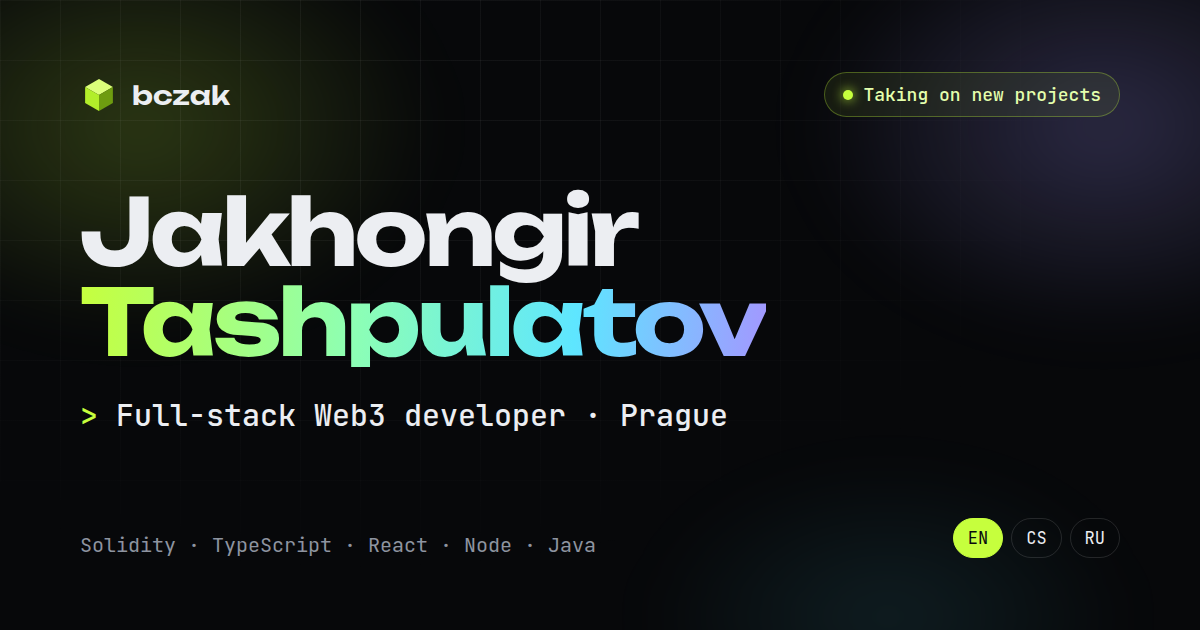
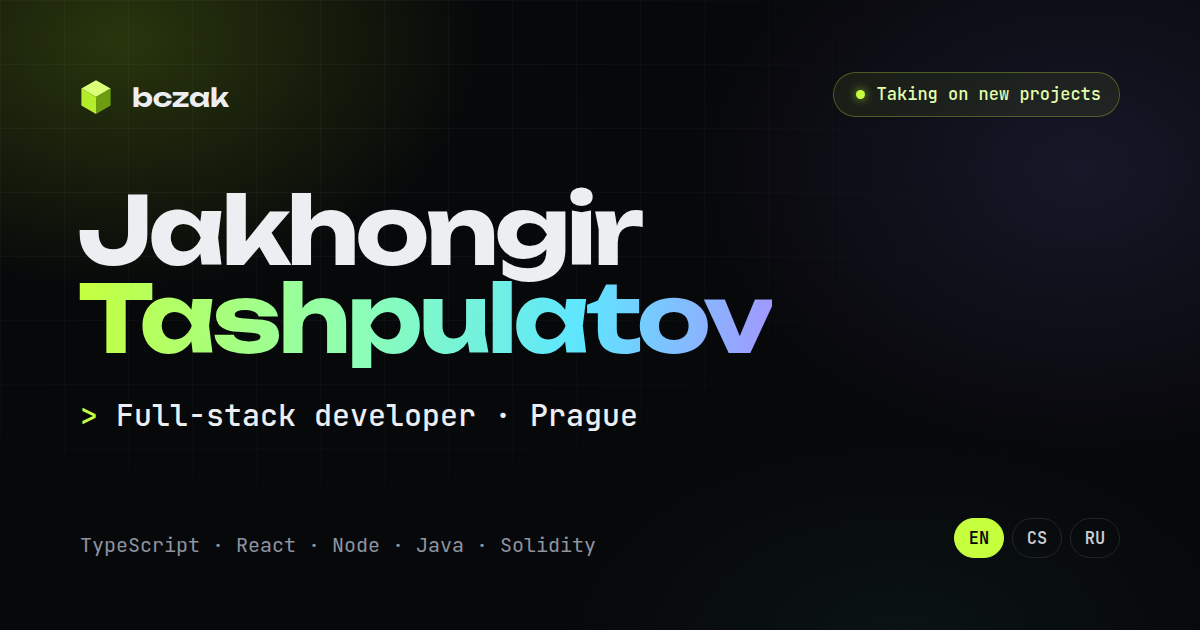
Full-stack developer title, specific skills, one-page print CV
- Title is now "Full-stack developer" (no Web3) in all languages, meta
  tags, README and a regenerated og.png
- Skills rebuilt from shipped work: TanStack Router/Query/Start, Next.js,
  Module Federation, Convex, Prisma, Docker, Prometheus and more; new
  Testing & tooling group; Backend and Data merged
- Findex bullet says what I built myself: subgraphs, trading app and
  back office; KINDRED: presentation websites for international companies
- Print: skills as compact text, languages in the header, secondary
  school web-only, so the EN and CS CVs fit one A4 page again

diff --git a/src/content.ts b/src/content.ts
@@ -67,21 +67,23 @@ export const nowUpdated: YM = [2026, 10]
 // Public figures from the findex.io homepage.
 export const findexStats = { checked: [2026, 10] as YM, chains: 3, indexes: 19, aum: 2_500_000 }
 
-export type StackId = 'web3' | 'frontend' | 'backend' | 'data' | 'cloud' | 'ai'
+// Strongest first. Every entry is backed by shipped work or commits in the repos behind the projects above.
+export type StackId = 'web3' | 'frontend' | 'backend' | 'cloud' | 'quality' | 'ai'
 export const stack: Record<StackId, string[]> = {
-  web3: ['Solidity', 'EVM', 'Uniswap V4', 'Safe', 'Zodiac Roles', 'viem', 'wagmi', 'The Graph', 'TON', 'TON Connect'],
-  frontend: ['TypeScript', 'React', 'TanStack', 'Vue', 'Vite', 'Tailwind CSS', 'Bootstrap', 'Design systems', 'Telegram Mini Apps'],
-  backend: ['Java', 'Spring Boot', 'Maven', 'Node.js', 'Bun', 'Deno', 'Python', 'Flask', 'REST', 'Telegraf'],
-  data: ['SQL', 'PostgreSQL', 'MySQL', 'Teradata', 'DynamoDB'],
-  cloud: ['Kubernetes', 'Jenkins', 'AWS Lambda', 'API Gateway', 'S3', 'CloudFront', 'Serverless', 'GitHub Actions'],
-  ai: ['LLM APIs', 'Agents', 'RAG', 'On-chain automation'],
+  web3: ['Solidity', 'EVM', 'viem', 'wagmi', 'Uniswap V4 SDKs', 'Safe', 'Zodiac Roles', 'ERC-4337', 'WalletConnect', 'The Graph', 'EVM nodes', 'TON', 'TON Connect'],
+  frontend: ['TypeScript', 'React', 'TanStack Router', 'TanStack Query', 'TanStack Start', 'Next.js', 'Vite', 'Rsbuild', 'Module Federation', 'Tailwind CSS', 'shadcn/ui', 'Zustand', 'Zod', 'Design systems', 'Three.js', 'Vue', 'Telegram Mini Apps'],
+  backend: ['Node.js', 'Bun', 'Deno', 'Express', 'Hono', 'Convex', 'REST & OpenAPI', 'GraphQL', 'PostgreSQL', 'MySQL', 'Teradata', 'Prisma', 'Drizzle', 'Firebase', 'Stripe', 'Java', 'Spring Boot', 'Python'],
+  cloud: ['Docker', 'Kubernetes', 'GitHub Actions', 'Jenkins', 'AWS Lambda', 'API Gateway', 'S3', 'CloudFront', 'Serverless', 'Traefik', 'APISIX', 'Prometheus', 'Grafana', 'Sentry', 'Linux'],
+  quality: ['Vitest', 'Playwright', 'Testing Library', 'Storybook', 'Jest', 'Biome', 'ESLint', 'Turborepo', 'semantic-release'],
+  ai: ['LLM APIs', 'AI agents', 'Claude Code', 'Codex', 'AI code review in CI', 'Sandboxed code execution', 'RAG', 'Genkit', 'On-chain automation'],
 }
 
 type JobText = { role: string; org?: string; summary: string; points: string[] }
 
-export const education: { id: 'ctu' | 'kspa'; from: number; to: number; url?: string }[] = [
+// printed: false keeps an entry off the one-page print CV.
+export const education: { id: 'ctu' | 'kspa'; from: number; to: number; url?: string; printed?: boolean }[] = [
   { id: 'ctu', from: 2018, to: 2021, url: 'https://fel.cvut.cz' },
-  { id: 'kspa', from: 2016, to: 2018 },
+  { id: 'kspa', from: 2016, to: 2018, printed: false },
 ]
 
 export const awards: { id: 'collaby' | 'hackaton'; year: number; url: string }[] = [
@@ -99,11 +101,11 @@ export const spoken: [Lang, string][] = [
 const en = {
   langName: 'English',
   name: 'Jakhongir Tashpulatov',
-  role: 'Full-stack Web3 developer',
+  role: 'Full-stack developer',
   prague: 'Prague, Czechia',
   meta: {
-    title: 'Jakhongir Tashpulatov — Full-stack Web3 developer',
-    description: 'Full-stack Web3 developer in Prague. Smart contracts, backends, indexers and interfaces — the whole stack, shipped.',
+    title: 'Jakhongir Tashpulatov — Full-stack developer',
+    description: 'Full-stack developer in Prague. Smart contracts, backends, indexers and interfaces — the whole stack, shipped.',
   },
   nav: { about: 'About', experience: 'Experience', projects: 'Projects', stack: 'Stack', contact: 'Contact', print: 'Print CV', language: 'Language' },
   hero: {
@@ -149,7 +151,7 @@ const en = {
         role: 'CEO',
         summary: 'Running a Prague software studio that designs, builds and tests products — from smart contracts to landing pages — for web3, fintech and AI clients.',
         points: [
-          'Built Findex, an index-token protocol on Uniswap V4 liquidity positions: contracts, trading app, admin dashboard and indexing.',
+          'Built Findex’s subgraphs, trading app and back office myself — an index-token protocol on Uniswap V4 liquidity positions.',
           'Building thyme/labs: EVM RPC (Gate), hosted subgraphs (Atlas) and Flow — TypeScript automation that runs from the user’s own Safe.',
           'Shipped BCkit, a free web3 debugging toolkit, and QandA.fun, a live multiplayer quiz platform.',
           'Lead a team of frontend, backend and smart-contract engineers with in-house QA and design.',
@@ -163,7 +165,7 @@ const en = {
       },
       kindred: {
         role: 'Full-stack developer',
-        summary: 'Full-stack feature work for a Prague product team.',
+        summary: 'Built presentation websites for international companies.',
         points: [],
       },
       kb: {
@@ -232,7 +234,7 @@ const en = {
   stack: {
     label: 'Stack',
     title: 'Tools I reach for',
-    groups: { web3: 'Web3', frontend: 'Frontend', backend: 'Backend', data: 'Data', cloud: 'Cloud & DevOps', ai: 'AI & automation' },
+    groups: { web3: 'Web3', frontend: 'Frontend', backend: 'Backend & data', cloud: 'Cloud & DevOps', quality: 'Testing & tooling', ai: 'AI & automation' },
   },
   background: { label: 'Background', title: 'Education & more' },
   education: {
@@ -275,11 +277,11 @@ export type Dict = typeof en
 const cs: Dict = {
   langName: 'Čeština',
   name: 'Jakhongir Tashpulatov',
-  role: 'Full-stack Web3 vývojář',
+  role: 'Full-stack vývojář',
   prague: 'Praha, Česko',
   meta: {
-    title: 'Jakhongir Tashpulatov — Full-stack Web3 vývojář',
-    description: 'Full-stack Web3 vývojář v Praze. Smart kontrakty, backendy, indexery i rozhraní — celý stack od návrhu po provoz.',
+    title: 'Jakhongir Tashpulatov — Full-stack vývojář',
+    description: 'Full-stack vývojář v Praze. Smart kontrakty, backendy, indexery i rozhraní — celý stack od návrhu po provoz.',
   },
   nav: { about: 'O mně', experience: 'Zkušenosti', projects: 'Projekty', stack: 'Technologie', contact: 'Kontakt', print: 'Tisk CV', language: 'Jazyk' },
   hero: {
@@ -325,7 +327,7 @@ const cs: Dict = {
         role: 'CEO',
         summary: 'Vedu pražské softwarové studio, které navrhuje, vyvíjí a testuje produkty — od smart kontraktů po landing pages — pro klienty z web3, fintechu a AI.',
         points: [
-          'Postavili jsme Findex, protokol indexových tokenů nad likviditními pozicemi Uniswap V4: kontrakty, obchodní aplikaci, administraci a indexaci.',
+          'Sám jsem postavil subgraphy, obchodní aplikaci a back office Findexu — protokolu indexových tokenů nad likviditními pozicemi Uniswap V4.',
           'Stavíme thyme/labs: EVM RPC (Gate), hostované subgraphy (Atlas) a Flow — automatizaci v TypeScriptu, která běží z vlastního Safe uživatele.',
           'Vydali jsme BCkit, bezplatnou sadu nástrojů pro ladění web3, a QandA.fun, platformu pro živé kvízy pro více hráčů.',
           'Vedu tým frontendových, backendových a smart-kontraktových vývojářů s vlastním QA a designem.',
@@ -339,7 +341,7 @@ const cs: Dict = {
       },
       kindred: {
         role: 'Full-stack vývojář',
-        summary: 'Full-stack vývoj nových funkcí v pražském produktovém týmu.',
+        summary: 'Vytvářel jsem prezentační weby pro mezinárodní společnosti.',
         points: [],
       },
       kb: {
@@ -408,7 +410,7 @@ const cs: Dict = {
   stack: {
     label: 'Technologie',
     title: 'Nástroje, po kterých sahám',
-    groups: { web3: 'Web3', frontend: 'Frontend', backend: 'Backend', data: 'Data', cloud: 'Cloud a DevOps', ai: 'AI a automatizace' },
+    groups: { web3: 'Web3', frontend: 'Frontend', backend: 'Backend a data', cloud: 'Cloud a DevOps', quality: 'Testování a nástroje', ai: 'AI a automatizace' },
   },
   background: { label: 'Vzdělání', title: 'Vzdělání a další' },
   education: {
@@ -449,11 +451,11 @@ const cs: Dict = {
 const ru: Dict = {
   langName: 'Русский',
   name: 'Джахонгир Ташпулатов',
-  role: 'Full-stack Web3-разработчик',
+  role: 'Full-stack-разработчик',
   prague: 'Прага, Чехия',
   meta: {
-    title: 'Джахонгир Ташпулатов — Full-stack Web3-разработчик',
-    description: 'Full-stack Web3-разработчик в Праге. Смарт-контракты, бэкенды, индексеры и интерфейсы — весь стек под ключ.',
+    title: 'Джахонгир Ташпулатов — Full-stack-разработчик',
+    description: 'Full-stack-разработчик в Праге. Смарт-контракты, бэкенды, индексеры и интерфейсы — весь стек под ключ.',
   },
   nav: { about: 'Обо мне', experience: 'Опыт', projects: 'Проекты', stack: 'Стек', contact: 'Контакты', print: 'Печать CV', language: 'Язык' },
   hero: {
@@ -499,7 +501,7 @@ const ru: Dict = {
         role: 'CEO',
         summary: 'Руковожу пражской студией, которая проектирует, разрабатывает и тестирует продукты — от смарт-контрактов до лендингов — для клиентов из web3, финтеха и AI.',
         points: [
-          'Сделали Findex — протокол индексных токенов на позициях ликвидности Uniswap V4: контракты, торговое приложение, админку и индексацию.',
+          'Сам сделал сабграфы, торговое приложение и бэк-офис Findex — протокола индексных токенов на позициях ликвидности Uniswap V4.',
           'Строим thyme/labs: EVM RPC (Gate), хостинг сабграфов (Atlas) и Flow — автоматизацию на TypeScript, которая работает из собственного Safe пользователя.',
           'Запустили BCkit — бесплатный набор инструментов для отладки web3 — и QandA.fun, платформу живых мультиплеерных квизов.',
           'Руковожу командой фронтенд-, бэкенд- и смарт-контракт-разработчиков со своими QA и дизайном.',
@@ -513,7 +515,7 @@ const ru: Dict = {
       },
       kindred: {
         role: 'Full-stack-разработчик',
-        summary: 'Full-stack-разработка продуктовых фич в пражской команде.',
+        summary: 'Делал презентационные сайты для международных компаний.',
         points: [],
       },
       kb: {
@@ -582,7 +584,7 @@ const ru: Dict = {
   stack: {
     label: 'Стек',
     title: 'Чем я пользуюсь',
-    groups: { web3: 'Web3', frontend: 'Фронтенд', backend: 'Бэкенд', data: 'Данные', cloud: 'Облако и DevOps', ai: 'AI и автоматизация' },
+    groups: { web3: 'Web3', frontend: 'Фронтенд', backend: 'Бэкенд и данные', cloud: 'Облако и DevOps', quality: 'Тестирование и инструменты', ai: 'AI и автоматизация' },
   },
   background: { label: 'Образование', title: 'Образование и не только' },
   education: {

diff --git a/index.html b/index.html
@@ -3,8 +3,8 @@
   <head>
     <meta charset="UTF-8" />
     <meta name="viewport" content="width=device-width, initial-scale=1.0" />
-    <title>Jakhongir Tashpulatov — Full-stack Web3 developer</title>
-    <meta name="description" content="Full-stack Web3 developer in Prague. Smart contracts, backends, indexers and interfaces — the whole stack, shipped." />
+    <title>Jakhongir Tashpulatov — Full-stack developer</title>
+    <meta name="description" content="Full-stack developer in Prague. Smart contracts, backends, indexers and interfaces — the whole stack, shipped." />
     <meta name="author" content="Jakhongir Tashpulatov" />
     <link rel="canonical" href="https://bczak.github.io/" />
     <link rel="alternate" hreflang="en" href="https://bczak.github.io/" />
@@ -20,24 +20,24 @@
     <meta property="og:locale" content="en_US" />
     <meta property="og:locale:alternate" content="cs_CZ" />
     <meta property="og:locale:alternate" content="ru_RU" />
-    <meta property="og:title" content="Jakhongir Tashpulatov — Full-stack Web3 developer" />
+    <meta property="og:title" content="Jakhongir Tashpulatov — Full-stack developer" />
     <meta property="og:description" content="Smart contracts, backends, indexers and interfaces. CV in English, Czech and Russian." />
     <meta property="og:image" content="https://bczak.github.io/og.png" />
-    <meta property="og:image:alt" content="Jakhongir Tashpulatov — Full-stack Web3 developer, Prague" />
+    <meta property="og:image:alt" content="Jakhongir Tashpulatov — Full-stack developer, Prague" />
     <meta property="og:image:width" content="1200" />
     <meta property="og:image:height" content="630" />
     <meta name="twitter:card" content="summary_large_image" />
-    <meta name="twitter:title" content="Jakhongir Tashpulatov — Full-stack Web3 developer" />
+    <meta name="twitter:title" content="Jakhongir Tashpulatov — Full-stack developer" />
     <meta name="twitter:description" content="Smart contracts, backends, indexers and interfaces. CV in English, Czech and Russian." />
     <meta name="twitter:image" content="https://bczak.github.io/og.png" />
-    <meta name="twitter:image:alt" content="Jakhongir Tashpulatov — Full-stack Web3 developer, Prague" />
+    <meta name="twitter:image:alt" content="Jakhongir Tashpulatov — Full-stack developer, Prague" />
 
     <script type="application/ld+json">
       {
         "@context": "https://schema.org",
         "@type": "Person",
         "name": "Jakhongir Tashpulatov",
-        "jobTitle": "Full-stack Web3 developer",
+        "jobTitle": "Full-stack developer",
         "url": "https://bczak.github.io/",
         "email": "mailto:tashpulatov.jakhongir@gmail.com",
         "address": { "@type": "PostalAddress", "addressLocality": "Prague", "addressCountry": "CZ" },
@@ -51,7 +51,7 @@
   <body>
     <div id="app">
       <noscript>
-        <h1>Jakhongir Tashpulatov — Full-stack Web3 developer, Prague</h1>
+        <h1>Jakhongir Tashpulatov — Full-stack developer, Prague</h1>
         <p><a href="mailto:tashpulatov.jakhongir@gmail.com">tashpulatov.jakhongir@gmail.com</a> · <a href="https://t.me/tashpik">Telegram</a> · <a href="https://www.linkedin.com/in/bczak">LinkedIn</a> · <a href="https://github.com/bczak">GitHub</a></p>
       </noscript>
     </div>

diff --git a/src/style.css b/src/style.css
@@ -476,6 +476,7 @@ html.print-preview #print-cv { display: block; width: 210mm; min-height: 297mm; 
   .pcv-role span { margin-left: 3mm; padding-left: 3mm; border-left: .8pt solid var(--rule); color: var(--muted); font-size: 8.4pt; font-weight: 500; }
   .pcv-contacts { display: flex; flex-wrap: wrap; gap: 1.2mm 4.5mm; margin-top: 3mm; color: var(--text); font-size: 7.9pt; }
   .pcv-contacts li { display: inline-flex; align-items: center; gap: 1.3mm; }
+  .pcv-contacts i { color: var(--muted); font-style: normal; }
   .pcv-qr { display: flex; flex: none; flex-direction: column; align-items: center; gap: 1.2mm; color: var(--muted); font-size: 6.4pt; text-align: center; }
   .pcv-qr svg { width: 18mm; height: 18mm; color: var(--ink); }
 
@@ -501,15 +502,15 @@ html.print-preview #print-cv { display: block; width: 210mm; min-height: 297mm; 
   aside section + section { margin-top: 3.8mm; }
   .pcv-skill + .pcv-skill { margin-top: 1.6mm; }
   .pcv-skill h3 { color: var(--muted); font-size: 7pt; font-weight: 700; text-transform: uppercase; letter-spacing: .07em; }
-  .pcv-skill p { display: flex; flex-wrap: wrap; gap: .8mm; margin-top: 1mm; }
-  .pcv-skill span { padding: .15mm 1.3mm; border: .6pt solid #d6dade; border-radius: 1mm; background: #f5f6f8; font-size: 7pt; line-height: 1.35; }
+  /* Plain text, not chips: the full list has to fit the 58 mm column. */
+  .pcv-skill p { margin-top: .6mm; color: var(--text); font-size: 7.4pt; line-height: 1.42; }
+  .pcv-skill span { white-space: nowrap; }
+  .pcv-skill span:not(:last-child)::after { content: "·"; margin-left: 1.1mm; color: #b4b9c0; }
   .pcv-item { break-inside: avoid; }
   .pcv-item + .pcv-item { margin-top: 2.2mm; }
   .pcv-item h3 { font-size: 8.6pt; font-weight: 700; line-height: 1.3; }
   .pcv-item p { color: var(--text); font-size: 7.9pt; }
   .pcv-item .pcv-when { margin-top: .4mm; color: var(--muted); font: 7.2pt var(--font-mono); }
-  .pcv-langs li { display: flex; justify-content: space-between; gap: 2mm; padding: .8mm 0; border-bottom: .6pt solid var(--rule); font-size: 8.2pt; }
-  .pcv-langs li span:last-child { color: var(--muted); font-size: 7.4pt; }
 
   .pcv-projects-wrap { margin-top: 4.2mm; }
   .pcv-projects { display: grid; grid-template-columns: repeat(2, minmax(0, 1fr)); gap: 2.6mm 5mm; }

diff --git a/src/main.ts b/src/main.ts
@@ -485,6 +485,7 @@ function printCv(t: Dict, lang: Lang) {
       ${c('send', profile.telegram, host(profile.telegram))}
       ${c('linkedin', profile.linkedin, host(profile.linkedin))}
       ${c('github', profile.github, host(profile.github))}
+      <li>${svg('languages')}<span>${spoken.map(([l, level]) => `${t.languages.names[l]} <i>${levelName(t, level)}</i>`).join(' · ')}</span></li>
     </ul>
   </div>
   <a class="pcv-qr" href="${langUrl(lang)}">${qr(langUrl(lang))}<span>${t.print.live}</span></a>
@@ -531,12 +532,12 @@ function printCv(t: Dict, lang: Lang) {
       ${(Object.entries(stack) as [StackId, string[]][]).map(([id, items]) => `
       <div class="pcv-skill">
         <h3>${t.stack.groups[id]}</h3>
-        <p>${items.map(s => `<span>${s}</span>`).join('')}</p>
+        <p>${items.map(s => `<span>${s}</span>`).join(' ')}</p>
       </div>`).join('')}
     </section>
     <section>
       <h2 class="pcv-h">${t.education.title}</h2>
-      ${education.map(e => `
+      ${education.filter(e => e.printed !== false).map(e => `
       <div class="pcv-item">
         <h3>${t.education[e.id].school}</h3>
         <p>${t.education[e.id].detail}</p>
@@ -551,12 +552,6 @@ function printCv(t: Dict, lang: Lang) {
         <p>${t.awards[a.id].detail}</p>
         <p class="pcv-when">${a.year}</p>
       </div>`).join('')}
-    </section>
-    <section>
-      <h2 class="pcv-h">${t.languages.title}</h2>
-      <ul class="pcv-langs">
-        ${spoken.map(([l, level]) => `<li><span>${t.languages.names[l]}</span><span>${levelName(t, level)}</span></li>`).join('')}
-      </ul>
     </section>
   </aside>
 </div>`

diff --git a/README.md b/README.md
@@ -1,6 +1,6 @@
 # bczak.github.io — CV
 
-Jakhongir Tashpulatov, full-stack Web3 developer. Live at https://bczak.github.io/ in English, Czech and Russian.
+Jakhongir Tashpulatov, full-stack developer. Live at https://bczak.github.io/ in English, Czech and Russian.
 
 - `npm run dev` — run locally
 - `npm run build` — build into `dist/`
